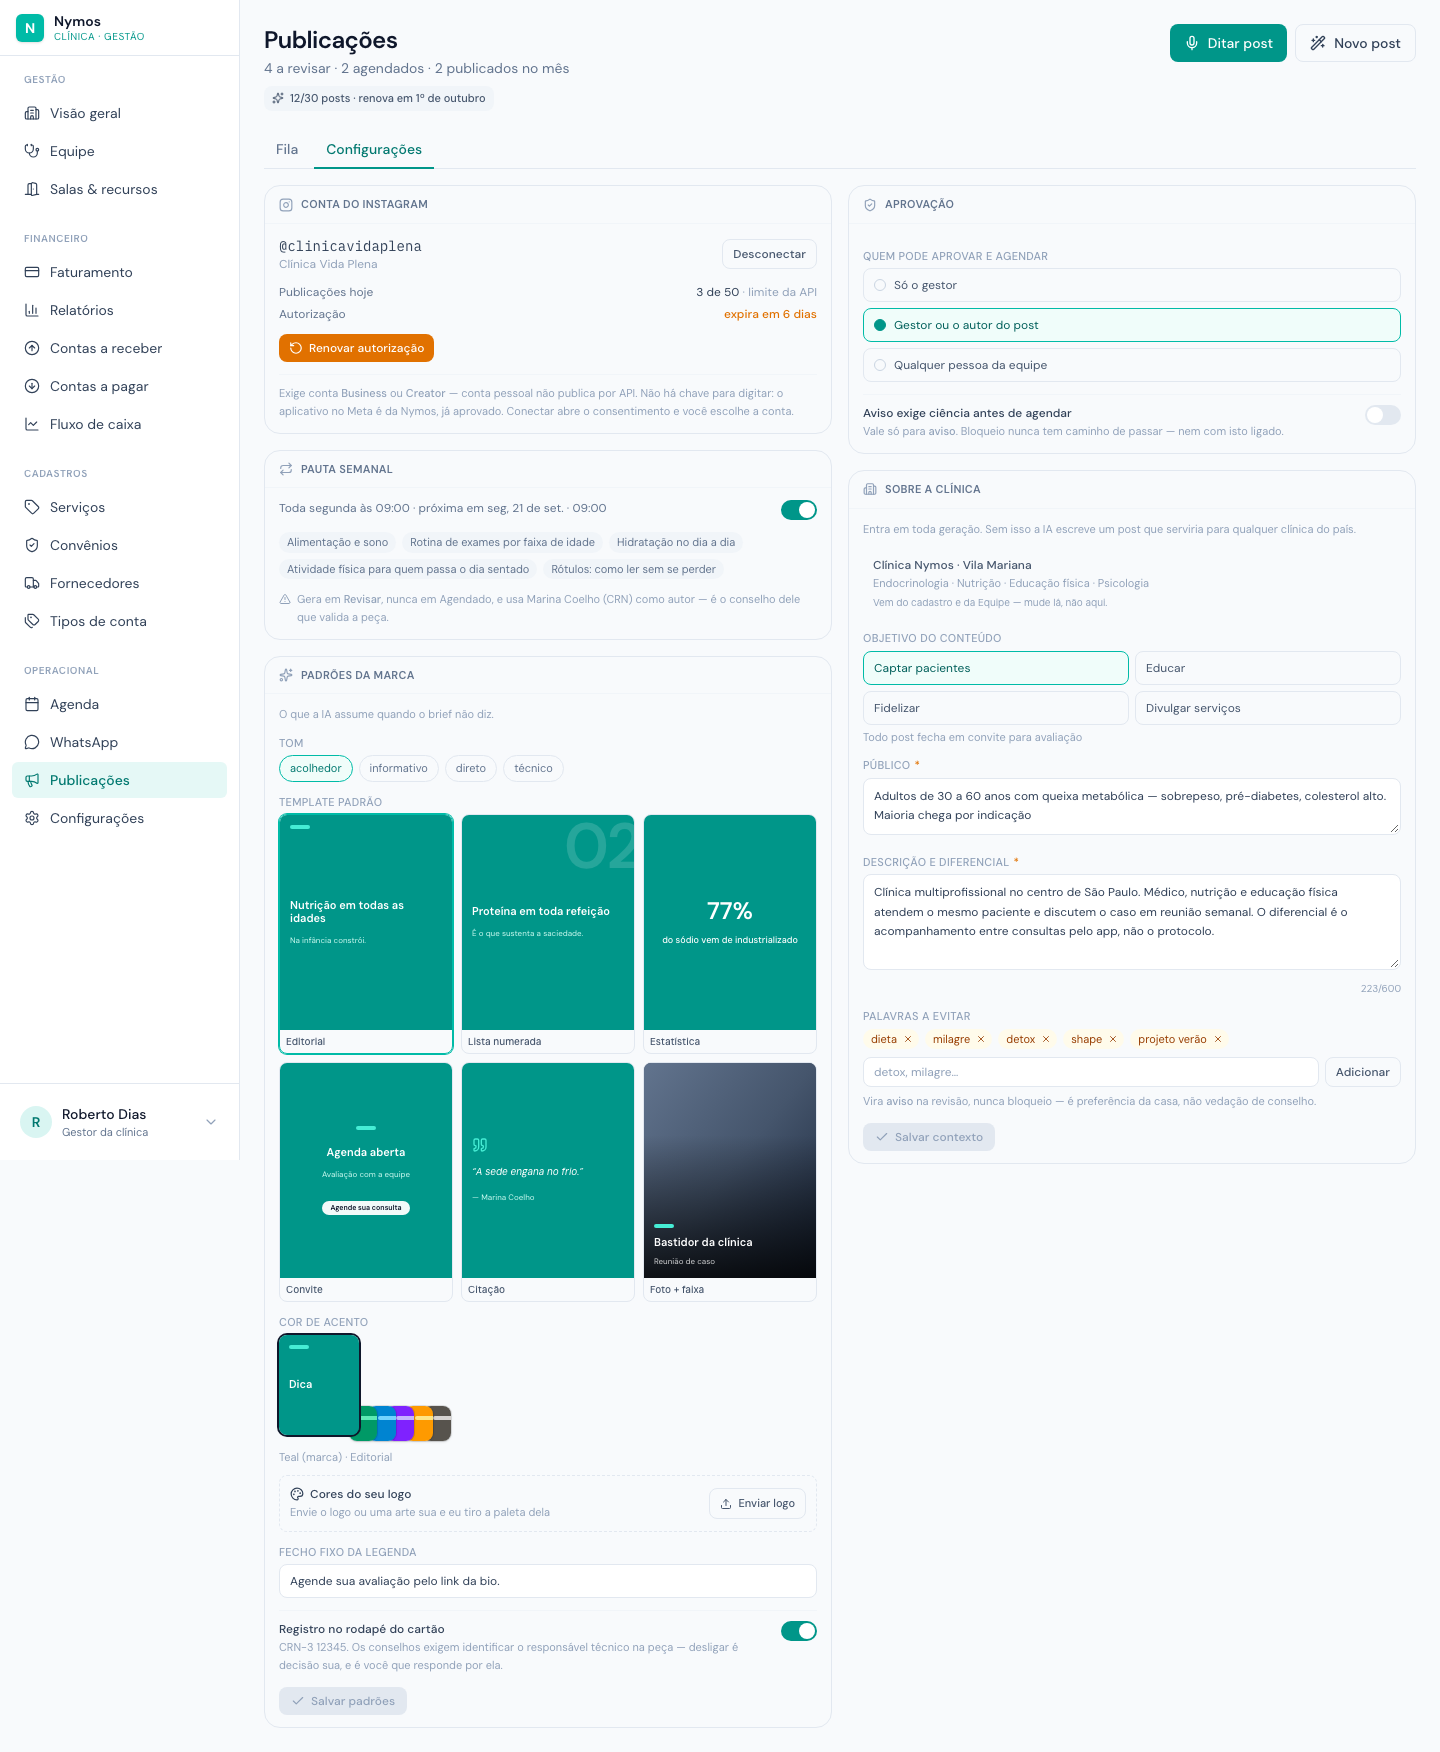
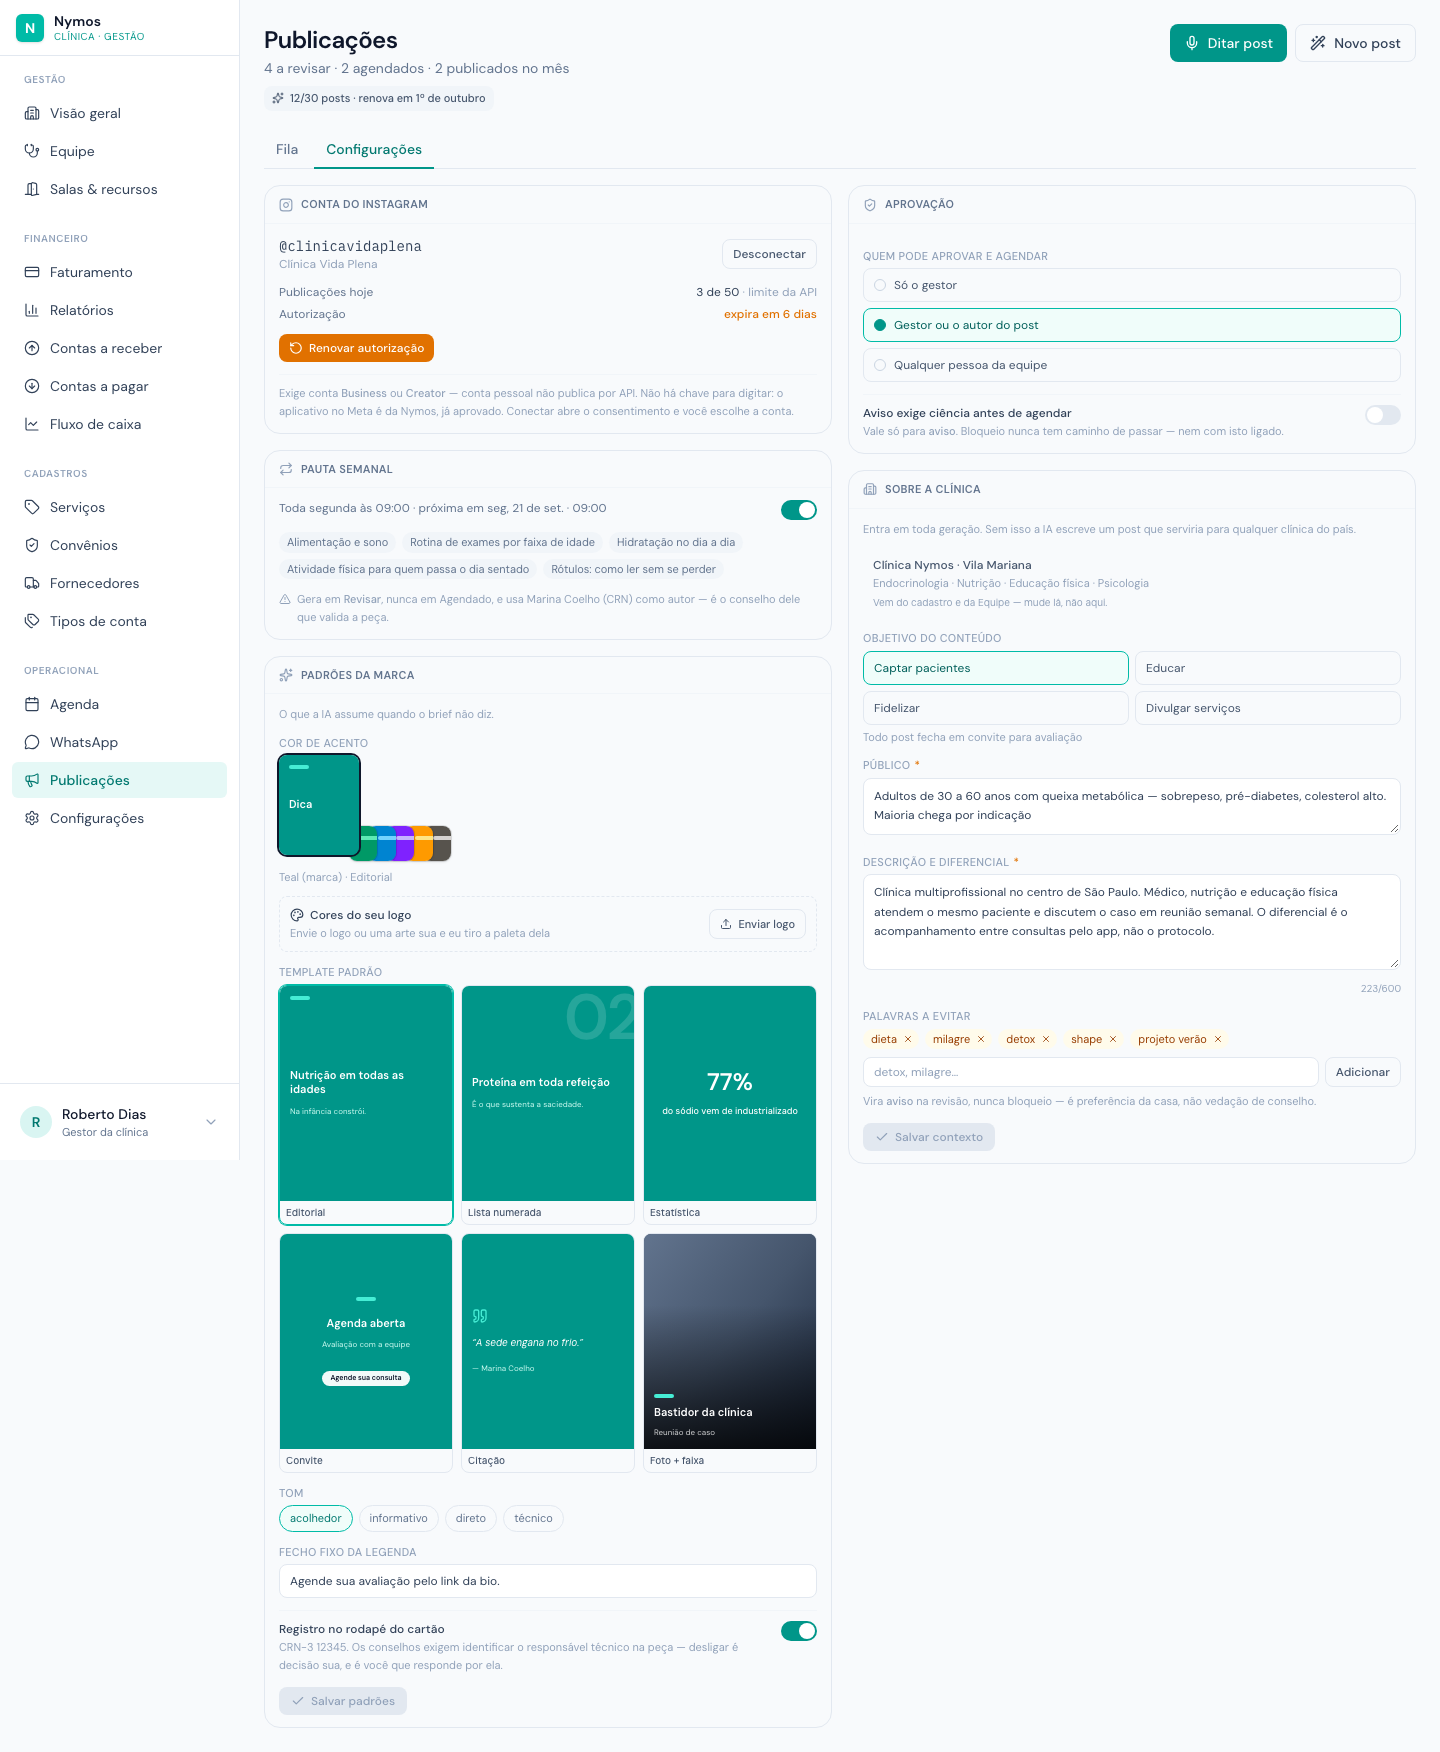
refactor(clinic/publicacoes): identidade visual antes da voz em Padrões da marca
Cor de acento e importação do logo sobem para o topo do bloco, seguidos do template;
tom e fecho fixo vêm depois. A decisão de marca começa pela cor — e o leque desenha o
template escolhido, então escolher a cor antes deixa o resto do bloco já na identidade
certa.

Changed region(s): [[0.1875, 0.4007, 0.5938, 0.8938]]

diff --git a/src/sections-clinic/publicacoes/components/ConfiguracoesPublicacoes.tsx b/src/sections-clinic/publicacoes/components/ConfiguracoesPublicacoes.tsx
@@ -282,56 +282,6 @@ export function ConfiguracoesPublicacoes({
           O que a IA assume quando o brief não diz.
         </p>
 
-        <Campo rotulo="Tom">
-          <div className="flex flex-wrap gap-1.5">
-            {TONS.map((t) => (
-              <Pilula
-                key={t}
-                ativo={rascunho.tom === t}
-                onClick={() => setRascunho({ ...rascunho, tom: t })}
-              >
-                {t}
-              </Pilula>
-            ))}
-          </div>
-        </Campo>
-
-        <Campo rotulo="Template padrão">
-          <div className="grid grid-cols-3 gap-2">
-            {TEMPLATES.map((t) => (
-              <button
-                key={t}
-                onClick={() => setRascunho({ ...rascunho, template: t })}
-                title={TEMPLATE_DESCRICAO[t]}
-                className={`overflow-hidden rounded-lg border text-left transition-colors ${
-                  rascunho.template === t
-                    ? 'border-teal-500 ring-1 ring-teal-500'
-                    : 'border-slate-200 hover:border-slate-300 dark:border-slate-700'
-                }`}
-              >
-                <div className="aspect-[4/5]">
-                  <Arte
-                    mini
-                    slide={{ ordem: 1, ...AMOSTRA[t] }}
-                    midia={{
-                      tipo: t === 'foto' ? 'upload' : 'template',
-                      template: t,
-                      acento: rascunho.acento,
-                    }}
-                    indice={1}
-                    usuario=""
-                    registro=""
-                    mostrarRegistro={false}
-                  />
-                </div>
-                <p className="truncate px-1.5 py-1 text-[10px] font-medium text-slate-600 dark:text-slate-300">
-                  {TEMPLATE_LABEL[t]}
-                </p>
-              </button>
-            ))}
-          </div>
-        </Campo>
-
         <Campo rotulo="Cor de acento">
           {/*
             Leque em vez de bolinha de cor: cada carta é o template ESCOLHIDO naquela
@@ -455,6 +405,56 @@ export function ConfiguracoesPublicacoes({
             {erroPaleta && (
               <p className="mt-2 text-[11px] text-amber-600 dark:text-amber-400">{erroPaleta}</p>
             )}
+          </div>
+        </Campo>
+
+        <Campo rotulo="Template padrão">
+          <div className="grid grid-cols-3 gap-2">
+            {TEMPLATES.map((t) => (
+              <button
+                key={t}
+                onClick={() => setRascunho({ ...rascunho, template: t })}
+                title={TEMPLATE_DESCRICAO[t]}
+                className={`overflow-hidden rounded-lg border text-left transition-colors ${
+                  rascunho.template === t
+                    ? 'border-teal-500 ring-1 ring-teal-500'
+                    : 'border-slate-200 hover:border-slate-300 dark:border-slate-700'
+                }`}
+              >
+                <div className="aspect-[4/5]">
+                  <Arte
+                    mini
+                    slide={{ ordem: 1, ...AMOSTRA[t] }}
+                    midia={{
+                      tipo: t === 'foto' ? 'upload' : 'template',
+                      template: t,
+                      acento: rascunho.acento,
+                    }}
+                    indice={1}
+                    usuario=""
+                    registro=""
+                    mostrarRegistro={false}
+                  />
+                </div>
+                <p className="truncate px-1.5 py-1 text-[10px] font-medium text-slate-600 dark:text-slate-300">
+                  {TEMPLATE_LABEL[t]}
+                </p>
+              </button>
+            ))}
+          </div>
+        </Campo>
+
+        <Campo rotulo="Tom">
+          <div className="flex flex-wrap gap-1.5">
+            {TONS.map((t) => (
+              <Pilula
+                key={t}
+                ativo={rascunho.tom === t}
+                onClick={() => setRascunho({ ...rascunho, tom: t })}
+              >
+                {t}
+              </Pilula>
+            ))}
           </div>
         </Campo>
 

diff --git a/product-clinic/sections/publicacoes/spec.md b/product-clinic/sections/publicacoes/spec.md
@@ -53,7 +53,7 @@ vê configuração de Instagram em lugar nenhum.
 | Aba | O quê |
 |---|---|
 | **Fila** | A fila de posts e o preview. A conta só aparece aqui quando há o que fazer: autorização vencendo, em faixa âmbar com **Reconectar**. Alerta, não configuração |
-| **Configurações** | Conta do Instagram (conectar/desconectar, validade, consumo do dia), pauta semanal, padrões da marca (tom, template, cor, fecho fixo, registro no cartão), aprovação e **Sobre a clínica** — o contexto de negócio que entra em toda geração |
+| **Configurações** | Conta do Instagram (conectar/desconectar, validade, consumo do dia), pauta semanal, padrões da marca — na ordem em que a decisão acontece: cor de acento e logo, template, tom, fecho fixo, registro no cartão, aprovação e **Sobre a clínica** — o contexto de negócio que entra em toda geração |
 
 **Em Configurações da clínica fica só o que é cobrança:** o módulo aparece em *Plano & limites →
 Módulos* com preço, consumo do ciclo e um link **Configurar** que traz para cá. Preço e cota não
